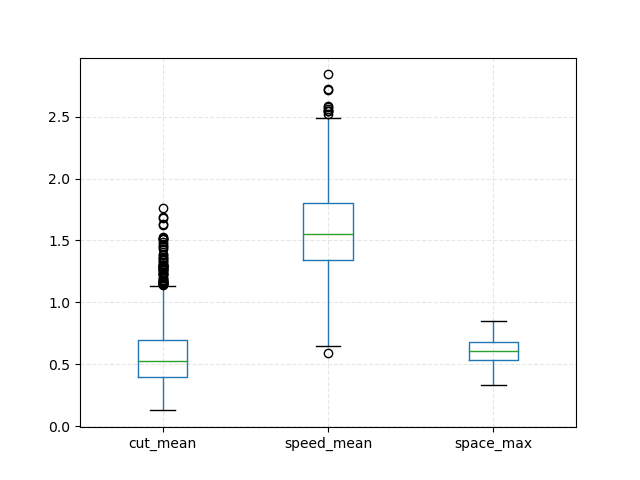
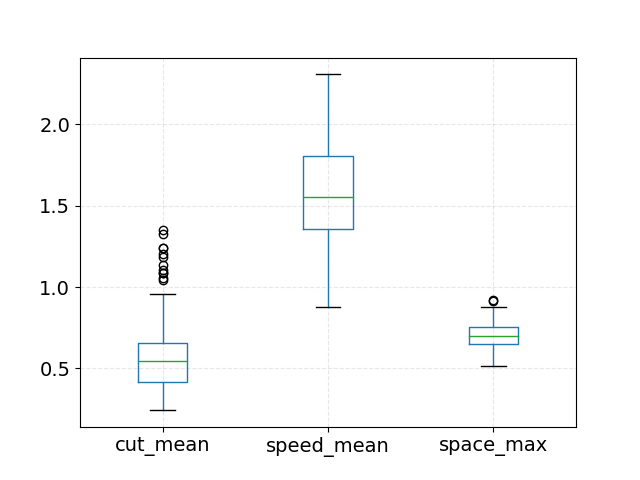
update draw functions

diff --git a/util/draw_bar.py b/util/draw_bar.py
@@ -1,0 +1,82 @@
+import matplotlib.pyplot as plt
+import pandas as pd
+import numpy as np
+
+
+def draw_bar(title, data, error):
+    plt.figure(figsize=(6, 4))
+    plt.rcParams['font.sans-serif'] = ['SimHei']  # 步骤一（替换sans-serif字体）
+    plt.rcParams['axes.unicode_minus'] = False  # 步骤二（解决坐标轴负数的负号显示问题）
+    plt.bar(range(len(data)), data, yerr=error, align='center', color='#5B9BD5', ecolor='#A6A6A6', capsize=10,
+            width=0.4)
+    plt.title(title)
+    plt.xticks(range(4), ['单手身前切割', '单手身旁切割', '单手反手切割', '双手切割'])
+    # plt.xticks(range(4), ['Slashing block in front', 'Slashing block beside',
+    #                       'Slashing block backhand', 'Slashing blocks with both hands'])
+    plt.grid(linestyle="--", alpha=0.3)
+    for x, y in zip(range(4), data):
+        plt.text(x, y + 0.03, '%.3f' % y, ha='center', va='bottom')
+    plt.savefig("../images/paper" + title + ".png")
+    plt.show()
+
+
+def draw_all_bar(title, data, error):
+    plt.figure(figsize=(6, 5))
+    N = 3
+    ind = np.arange(N)
+    width = 0.2
+    plt.bar(ind, data[0], width, color='#375DA1', yerr=error[0], label='Slashing block in front')
+    plt.bar(ind + width, data[1], width, color='#4472C4', yerr=error[1], label='Slashing block beside')
+    plt.bar(ind + 2 * width, data[2], width, color='#5B9BD5', yerr=error[2], label='Slashing block backhand')
+    plt.bar(ind + 3 * width, data[3], width, color='#ADC6E5', yerr=error[3], label='Slashing blocks with both hands')
+
+    # plt.ylabel('Scores')
+    # plt.title('Scores by group and gender')
+
+    plt.xticks(ind + 1.5 * width, ('Amplitude', 'Speed', 'Space'))
+    plt.legend(loc='center', bbox_to_anchor=(0.5, -0.25), borderaxespad=0.)
+    plt.grid(linestyle="--", alpha=0.3)
+    plt.savefig("../images/paper/" + title + ".png")
+    plt.show()
+
+
+def draw_all_bar_no_error(title, data):
+    plt.figure(figsize=(6, 4))
+    plt.ylim(0, 1.8)
+    N = 3
+    ind = np.arange(N)
+    width = 0.25
+    plt.bar(ind, data[0], width, color='#375DA1', label='Repetition 1')
+    plt.bar(ind + width, data[1], width, color='#5B9BD5', label='Repetition 2')
+    plt.bar(ind + 2 * width, data[2], width, color='#ADC6E5', label='Repetition 3')
+
+    for i in range(3):
+        for x, y in zip(range(4), data[i]):
+            plt.text(x + i * width, y + 0.03, '%.3f' % y, ha='center', va='bottom')
+    # plt.ylabel('Scores')
+    # plt.title('Scores by group and gender')
+
+    plt.xticks(ind + width, ('Amplitude', 'Speed', 'Space'))
+    plt.legend(loc='best')
+    plt.grid(linestyle="--", alpha=0.3)
+    plt.savefig("../images/paper/" + title + ".png")
+    plt.show()
+
+
+if __name__ == '__main__':
+    # df = pd.read_csv("../Dataset/event&motion1.csv", encoding='gbk')
+    df = pd.read_csv("../Dataset/trial&motion.csv", encoding='gbk')
+    # features = ['平均切割动作幅度', '平均切割动作速度', '最大游戏空间大小']
+    features = ['第一次游戏', '第二次游戏', '第三次游戏']
+    # features = ['单手身前切割', '单手身旁切割', '单手反手切割', '双手切割']
+    data = list()
+    error = list()
+    for feature in features:
+        # data_t = df[feature].tolist()[0:4]
+        # error_t = df[feature].tolist()[4:8]
+        # draw_bar(feature, data_t, error_t)
+
+        data.append(df[feature].tolist()[0:3])
+        # error.append(df[feature].tolist()[3:6])
+    # draw_all_bar('all', data, error)
+    draw_all_bar_no_error('repetition', data)

diff --git a/util/draw_line_3.py b/util/draw_line_3.py
@@ -1,0 +1,52 @@
+import matplotlib.pyplot as plt
+import pandas as pd
+import os
+
+if __name__ == '__main__':
+    df = pd.read_csv("../Dataset/all_2.csv")
+    iters = range(1, df.shape[0] + 1)
+
+    cut_matching_val = df['cut_matching_val'].tolist()
+    cut_proto_val = df['cut_proto_val'].tolist()
+    cut_maml_val = df['cut_maml_val'].tolist()
+    speed_matching_val = df['speed_matching_val'].tolist()
+    speed_proto_val = df['speed_proto_val'].tolist()
+    speed_maml_val = df['speed_maml_val'].tolist()
+    space_matching_val = df['space_matching_val'].tolist()
+    space_proto_val = df['space_proto_val'].tolist()
+    space_maml_val = df['space_maml_val'].tolist()
+
+    fig, ax = plt.subplots(nrows=1, ncols=3, figsize=(18, 4), dpi=100)
+    plt.figure(1)
+    ax[0] = plt.subplot(131)
+    ax[0].set_xlabel("EPOCH", fontsize=16)
+    ax[0].set_ylabel("Amplitude Accuracy", fontsize=16)
+    ax[0].set_ylim([0, 1])
+    ax[0].plot(iters, cut_matching_val, color='#4472C4', label="Matching Net")
+    ax[0].plot(iters, cut_proto_val, color='#5B9BD5', label="Proto Net")
+    ax[0].plot(iters, cut_maml_val, color='#A5A5A5', label="MAML")
+    ax[0].legend(loc='lower right')
+    ax[0].grid()
+
+    ax[1] = plt.subplot(132)
+    ax[1].set_xlabel("EPOCH", fontsize=16)
+    ax[1].set_ylabel("Speed Accuracy", fontsize=16)
+    ax[1].set_ylim([0, 1])
+    ax[1].plot(iters, speed_matching_val, color='#4472C4', label="Matching Net")
+    ax[1].plot(iters, speed_proto_val, color='#5B9BD5', label="Proto Net")
+    ax[1].plot(iters, speed_maml_val, color='#A5A5A5', label="MAML")
+    ax[1].legend(loc='lower right')
+    ax[1].grid()
+
+    ax[2] = plt.subplot(133)
+    ax[2].set_xlabel("EPOCH", fontsize=16)
+    ax[2].set_ylabel("Space Accuracy", fontsize=16)
+    ax[2].set_ylim([0, 1])
+    ax[2].plot(iters, space_matching_val, color='#4472C4', label="Matching Net")
+    ax[2].plot(iters, space_proto_val, color='#5B9BD5', label="Proto Net")
+    ax[2].plot(iters, space_maml_val, color='#A5A5A5', label="MAML")
+    ax[2].legend(loc='lower right')
+    ax[2].grid()
+
+    plt.savefig("../images/paper/all_2.png")
+    plt.show()

diff --git a/util/draw_line.py b/util/draw_line.py
@@ -1,0 +1,30 @@
+import matplotlib.pyplot as plt
+import pandas as pd
+import os
+
+
+def draw_train_process(title, iters, acc_matching, acc_proto, acc_maml, label_matching, lable_proto, label_maml):
+    # plt.title(title, fontsize=20)
+    plt.xlabel("EPOCH_NUM", fontsize=16)
+    plt.ylabel("Testing Accuracy", fontsize=16)
+    plt.ylim([0, 1])
+    plt.plot(iters, acc_matching, color='#4472C4', label=label_matching)
+    plt.plot(iters, acc_proto, color='#5B9BD5', label=lable_proto)
+    plt.plot(iters, acc_maml, color='#A5A5A5', label=label_maml)
+    plt.legend(loc='lower right')
+    plt.grid()
+    plt.savefig("../images/" + title + ".png")
+    plt.show()
+
+
+if __name__ == '__main__':
+    df = pd.read_csv("../Dataset/all_2.csv")
+
+    iters = range(1, df.shape[0] + 1)
+    features = ['cut', 'speed', 'space']
+    for feature in features:
+        all_matching_accs = df[feature + '_matching_val'].tolist()
+        all_proto_accs = df[feature + '_proto_val'].tolist()
+        all_maml_accs = df[feature + '_maml_val'].tolist()
+        draw_train_process(feature, iters, all_matching_accs, all_proto_accs, all_maml_accs, "Matching Net",
+                           "Proto Net", "MAML")

diff --git a/util/draw_box.py b/util/draw_box.py
@@ -18,10 +18,12 @@ if __name__ == '__main__':
     # # plt.violinplot(df, showmeans=False, showmedians=True)
     # plt.show()
 
-    df = pd.read_csv("../Dataset/Data_dataset.csv")
+    df = pd.read_csv("../Dataset/Data_dataset_tmp.csv")
     df_df = df[["cut_mean", "speed_mean", "space_max"]]
+    df_df.columns = ['Amplitude(mean)', 'Speed(mean)', 'Space(max)']
     # df_df.plot.box(title="Motion Features Box")
-    df_df.plot.box()
+    df_df.plot.box(fontsize=14)
+
     plt.grid(linestyle="--", alpha=0.3)
-    plt.savefig("../images/Motion Features Box.png")
+    plt.savefig("../images/Paper/Motion Features Box.png")
     plt.show()

diff --git a/util/draw_map.py b/util/draw_map.py
@@ -16,12 +16,12 @@ def draw_heatmap(data):
     dfData = df.corr(method='spearman')
     plt.subplots(figsize=(15, 15))  # 设置画面大小
     sns.heatmap(dfData, annot=True, vmax=1, square=True, yticklabels=ylabels, xticklabels=ylabels, cmap="RdBu")
-    plt.savefig("../images/Map.png")
+    plt.savefig("../images/paper/Map.png")
     plt.show()
 
 
 if __name__ == '__main__':
-    df = pd.read_csv("../Dataset/RIPPER_full_quarter.csv", index_col=0)
+    df = pd.read_csv("../Dataset/spearman map.csv", index_col=0)
     print(df.describe())
     # df_df = df[["cut_mean", "speed_mean", "space_max"]]
     draw_heatmap(df)
